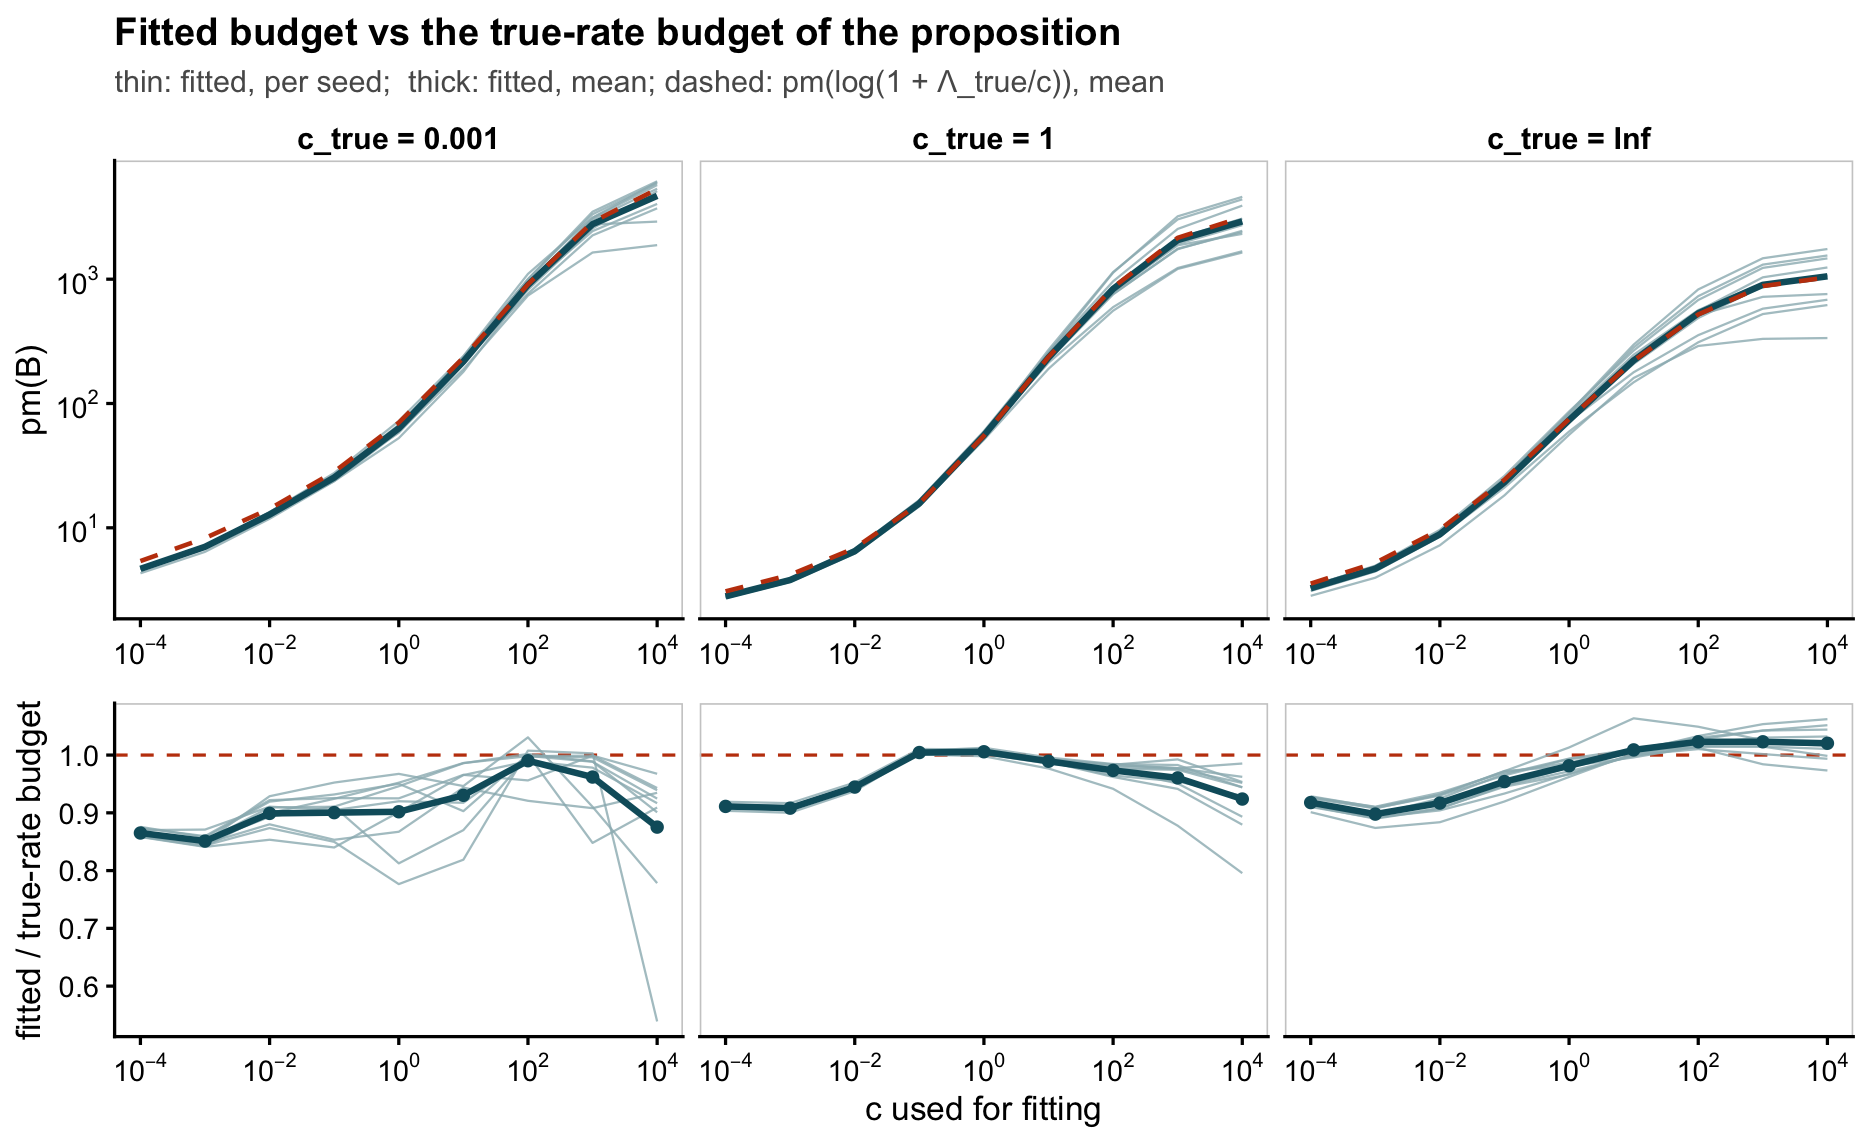
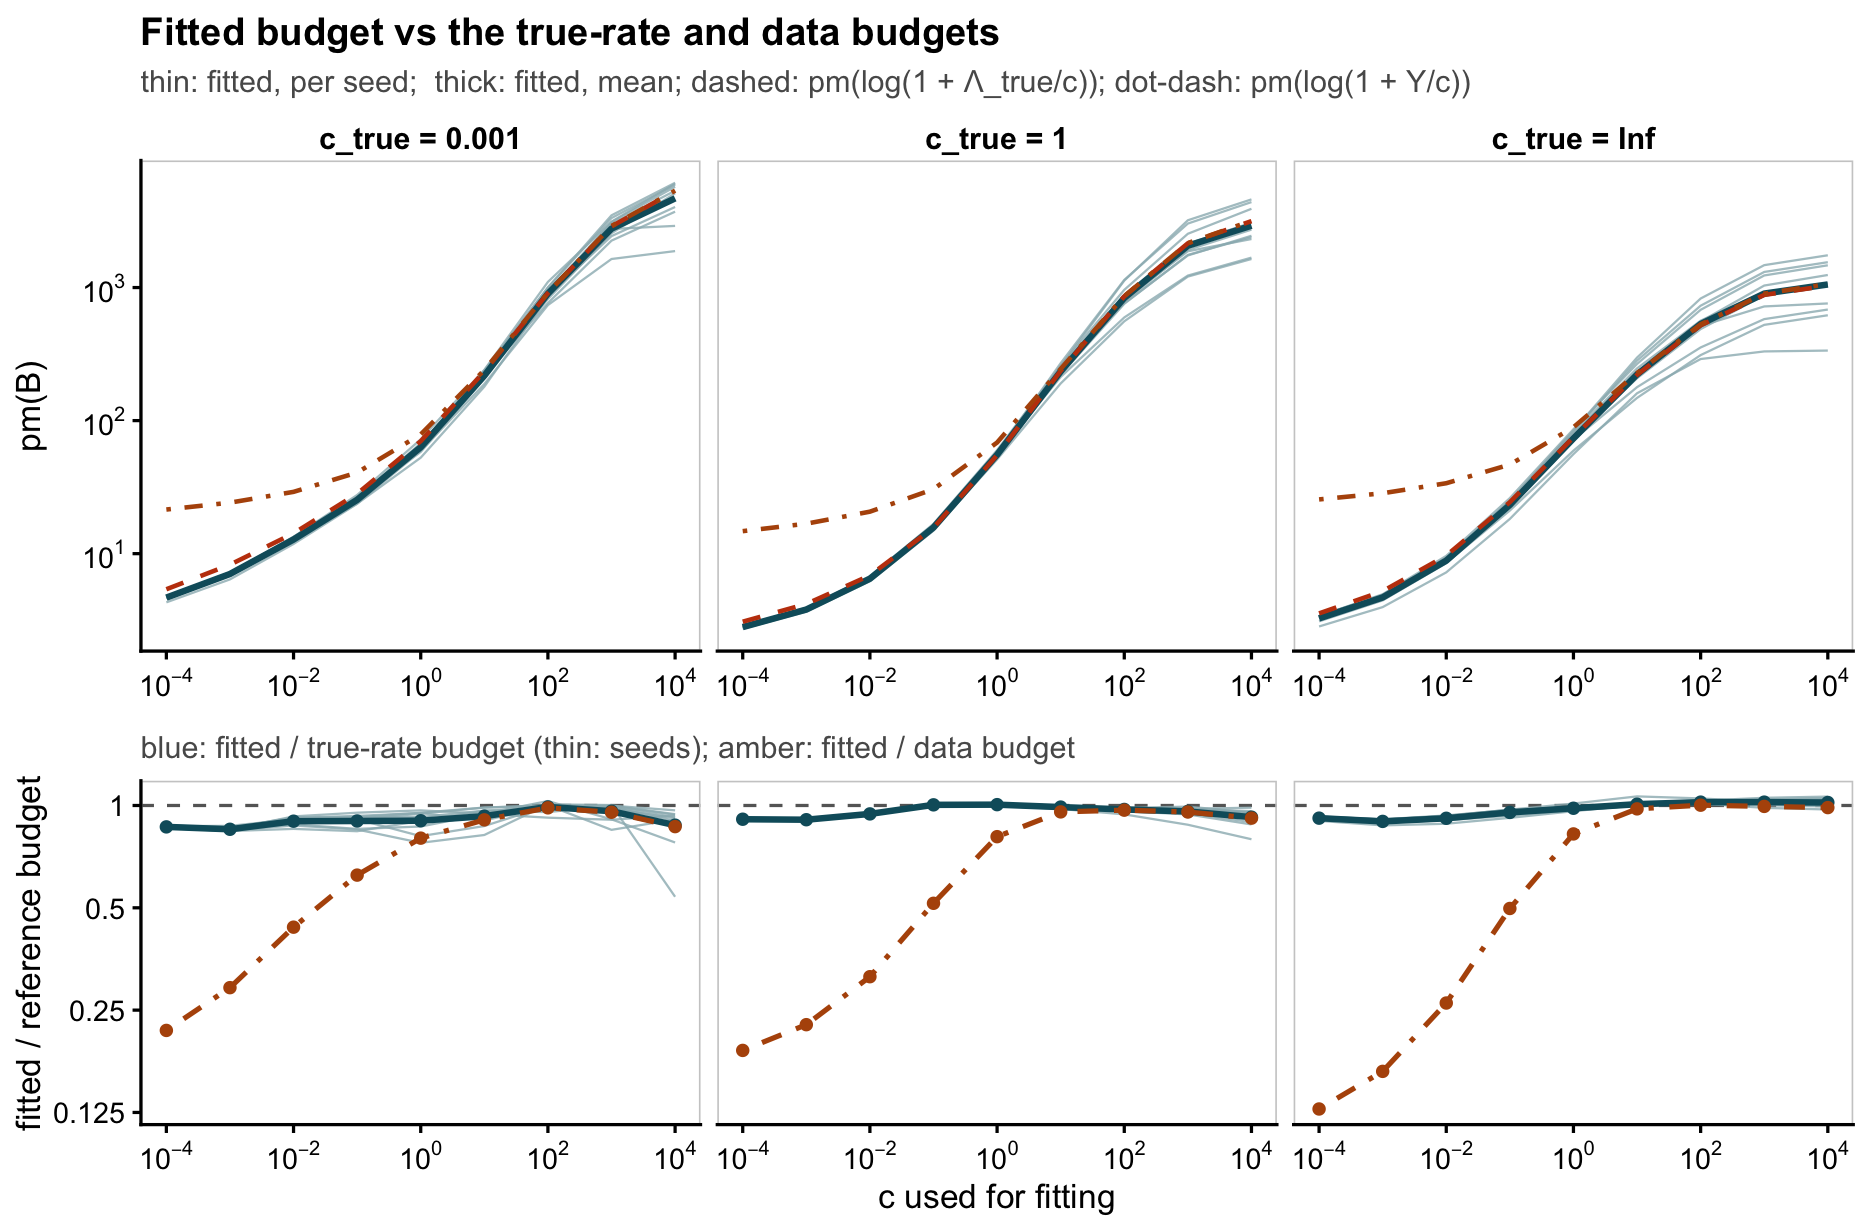
Build site.

diff --git a/docs/sim_design.html b/docs/sim_design.html
@@ -549,15 +549,15 @@ project makes it easier to run your code on other machines.</p>
 <div class="panel panel-default">
 <div class="panel-heading">
 <p class="panel-title">
-<a data-toggle="collapse" data-parent="#workflowr-checks" href="#strongRepositoryversionstrongahrefhttpsgithubcomeweinelog1pexperimentstreeb3a00c92298a42ee37468ebe219ddc2c30ce9fcatargetblankb3a00c9a">
+<a data-toggle="collapse" data-parent="#workflowr-checks" href="#strongRepositoryversionstrongahrefhttpsgithubcomeweinelog1pexperimentstree3ea0a61deeb48d958abd552eb722e18290f4c848targetblank3ea0a61a">
 <span class="glyphicon glyphicon-ok text-success"
 aria-hidden="true"></span> <strong>Repository version:</strong>
-<a href="https://github.com/eweine/log1p_experiments/tree/b3a00c92298a42ee37468ebe219ddc2c30ce9fca" target="_blank">b3a00c9</a>
+<a href="https://github.com/eweine/log1p_experiments/tree/3ea0a61deeb48d958abd552eb722e18290f4c848" target="_blank">3ea0a61</a>
 </a>
 </p>
 </div>
 <div
[2 lines of base64/hex data omitted]
 class="panel-collapse collapse">
 <div class="panel-body">
 <p>
@@ -567,7 +567,7 @@ reproducibility.
 </p>
 <p>
 The results in this page were generated with repository version
-<a href="https://github.com/eweine/log1p_experiments/tree/b3a00c92298a42ee37468ebe219ddc2c30ce9fca" target="_blank">b3a00c9</a>.
+<a href="https://github.com/eweine/log1p_experiments/tree/3ea0a61deeb48d958abd552eb722e18290f4c848" target="_blank">3ea0a61</a>.
 See the <em>Past versions</em> tab to see a history of the changes made
 to the R Markdown and HTML files.
 </p>
@@ -632,6 +632,40 @@ Message
 </tr>
 </thead>
 <tbody>
+<tr>
+<td>
+Rmd
+</td>
+<td>
+<a href="https://github.com/eweine/log1p_experiments/blob/3ea0a61deeb48d958abd552eb722e18290f4c848/analysis/sim_design.Rmd" target="_blank">3ea0a61</a>
+</td>
+<td>
+Eric Weine
+</td>
+<td>
+2026-08-10
+</td>
+<td>
+budget figure: add the data budget pm(log(1 + Y/c)) alongside fitted
+</td>
+</tr>
+<tr>
+<td>
+html
+</td>
+<td>
+<a href="https://rawcdn.githack.com/eweine/log1p_experiments/6c9d5469fc52eb8995f73c0b9f085744efbaa79e/docs/sim_design.html" target="_blank">6c9d546</a>
+</td>
+<td>
+Eric Weine
+</td>
+<td>
+2026-08-10
+</td>
+<td>
+Build site.
+</td>
+</tr>
 <tr>
 <td>
 Rmd
@@ -2326,57 +2360,114 @@ with <span class="math inline">\(b^{*}_{ij}(c) = \log(1 +
 the truth itself, and the quantity <span class="math inline">\(c \mapsto
 \operatorname{pm}(\log(1 +
 \boldsymbol{\Lambda}_{\textrm{true}}/c))\)</span> is computable from the
-generative model with no fitting at all. Comparing it to the budget the
-fitted models actually realize:</p>
+generative model with no fitting at all. Alongside it we show the same
+curve computed from the observed counts, <span
+class="math inline">\(\operatorname{pm}(\log(1 + \mathbf{Y}/c))\)</span>
+— the version available in practice (it is the calibration target of
+this whole design), and, by the saturated-case remark in the appendix,
+<em>exactly</em> the fitted budget when <span class="math inline">\(K
+\geq \min(n, p)\)</span>. Comparing both to the budget the rank-<span
+class="math inline">\(5\)</span> fits actually realize:</p>
 <pre class="r"><code>pm_true &lt;- do.call(rbind, lapply(ds, function(d) data.frame(
   seed = d$seed, cc = CC_GRID,
   ct = factor(paste0(&quot;c_true = &quot;, fmtc(d$c_true)), levels = levels(res$ct)),
   pm_true = sapply(CC_GRID, function(cc) {
-    g &lt;- log1p(d$lambda / cc); max(g) / mean(g) }))))
+    g &lt;- log1p(d$lambda / cc); max(g) / mean(g) }),
+  pm_data = sapply(CC_GRID, function(cc) {
+    g &lt;- log1p(d$Y / cc); max(g) / mean(g) }))))
 cmp &lt;- merge(exm[c(&quot;seed&quot;, &quot;cc&quot;, &quot;ct&quot;, &quot;pm_B&quot;)],
              pm_true, by = c(&quot;seed&quot;, &quot;cc&quot;, &quot;ct&quot;))
-cmp$ratio &lt;- cmp$pm_B / cmp$pm_true
+cmp$ratio      &lt;- cmp$pm_B / cmp$pm_true
+cmp$ratio_data &lt;- cmp$pm_B / cmp$pm_data
 
-avg  &lt;- aggregate(cbind(pm_B, pm_true) ~ cc + ct, cmp, mean)
+avg  &lt;- aggregate(cbind(pm_B, pm_true, pm_data) ~ cc + ct, cmp, mean)
 p1 &lt;- ggplot(cmp, aes(cc, pm_B)) +
   geom_line(aes(group = seed), colour = &quot;#9BB7BD&quot;,
             linewidth = 0.35, alpha = 0.8) +
   geom_line(data = avg, colour = &quot;#0E5C6B&quot;, linewidth = 1) +
   geom_line(data = avg, aes(y = pm_true), colour = &quot;#C2410C&quot;,
             linetype = &quot;dashed&quot;, linewidth = 0.7) +
+  geom_line(data = avg, aes(y = pm_data), colour = &quot;#B45309&quot;,
+            linetype = &quot;dotdash&quot;, linewidth = 0.7) +
   scale_x_log10(breaks = 10^seq(-4, 4, 2), labels = scales::label_log()) +
   scale_y_log10(labels = scales::label_log()) +
   facet_wrap(~ ct, nrow = 1) +
   labs(x = NULL, y = &quot;pm(B)&quot;,
-       title = &quot;Fitted budget vs the true-rate budget of the proposition&quot;,
+       title = &quot;Fitted budget vs the true-rate and data budgets&quot;,
        subtitle = paste(&quot;thin: fitted, per seed;  thick: fitted, mean;&quot;,
-                        &quot;dashed: pm(log(1 + Λ_true/c)), mean&quot;)) +
+                        &quot;dashed: pm(log(1 + Λ_true/c));&quot;,
+                        &quot;dot-dash: pm(log(1 + Y/c))&quot;)) +
   theme(strip.background = element_blank(),
         strip.text = element_text(face = &quot;bold&quot;, size = 10),
         plot.subtitle = element_text(size = 10, colour = &quot;grey35&quot;),
         panel.border = element_rect(colour = &quot;grey80&quot;, fill = NA))
 
-ravg &lt;- aggregate(ratio ~ cc + ct, cmp, mean)
+ravg &lt;- aggregate(cbind(ratio, ratio_data) ~ cc + ct, cmp, mean)
 p2 &lt;- ggplot(cmp, aes(cc, ratio)) +
-  geom_hline(yintercept = 1, linetype = &quot;dashed&quot;, colour = &quot;#C2410C&quot;) +
+  geom_hline(yintercept = 1, linetype = &quot;dashed&quot;, colour = &quot;grey40&quot;) +
   geom_line(aes(group = seed), colour = &quot;#9BB7BD&quot;,
             linewidth = 0.35, alpha = 0.8) +
   geom_line(data = ravg, colour = &quot;#0E5C6B&quot;, linewidth = 1) +
   geom_point(data = ravg, colour = &quot;#0E5C6B&quot;, size = 1.4) +
+  geom_line(data = ravg, aes(y = ratio_data), colour = &quot;#B45309&quot;,
+            linetype = &quot;dotdash&quot;, linewidth = 0.8) +
+  geom_point(data = ravg, aes(y = ratio_data), colour = &quot;#B45309&quot;,
+             size = 1.4) +
   scale_x_log10(breaks = 10^seq(-4, 4, 2), labels = scales::label_log()) +
+  scale_y_log10(breaks = c(0.125, 0.25, 0.5, 1),
+                labels = c(&quot;0.125&quot;, &quot;0.25&quot;, &quot;0.5&quot;, &quot;1&quot;)) +
   facet_wrap(~ ct, nrow = 1) +
-  labs(x = &quot;c used for fitting&quot;,
-       y = &quot;fitted / true-rate budget&quot;) +
+  labs(x = &quot;c used for fitting&quot;, y = &quot;fitted / reference budget&quot;,
+       subtitle = paste(&quot;blue: fitted / true-rate budget (thin: seeds);&quot;,
+                        &quot;amber: fitted / data budget&quot;)) +
   theme(strip.background = element_blank(),
         strip.text = element_blank(),
+        plot.subtitle = element_text(size = 10, colour = &quot;grey35&quot;),
         panel.border = element_rect(colour = &quot;grey80&quot;, fill = NA))
 
-cowplot::plot_grid(p1, p2, ncol = 1, rel_heights = c(1.5, 1), align = &quot;v&quot;)</code></pre>
+cowplot::plot_grid(p1, p2, ncol = 1, rel_heights = c(1.4, 1), align = &quot;v&quot;)</code></pre>
 <p><img src="figure/sim_design.Rmd/budget-true-fig-1.png" alt="" width="935" style="display: block; margin: auto;" /></p>
+<p>
+<button type="button" class="btn btn-default btn-xs btn-workflowr btn-workflowr-fig" data-toggle="collapse" data-target="#fig-budget-true-fig-1">
+Past versions of budget-true-fig-1.png
+</button>
+</p>
+<div id="fig-budget-true-fig-1" class="collapse">
+<div class="table-responsive">
+<table class="table table-condensed table-hover">
+<thead>
+<tr>
+<th>
+Version
+</th>
+<th>
+Author
+</th>
+<th>
+Date
+</th>
+</tr>
+</thead>
+<tbody>
+<tr>
+<td>
+<a href="https://github.com/eweine/log1p_experiments/blob/6c9d5469fc52eb8995f73c0b9f085744efbaa79e/docs/figure/sim_design.Rmd/budget-true-fig-1.png" target="_blank">6c9d546</a>
+</td>
+<td>
+Eric Weine
+</td>
+<td>
+2026-08-10
+</td>
+</tr>
+</tbody>
+</table>
+</div>
+</div>
 <p>The dashed curve is barely distinguishable from the fitted one: the
 mean ratio stays within <span class="math inline">\(0.85\)</span>–<span
-class="math inline">\(1.02\)</span> across the entire grid (bottom row),
-and the individual seeds mostly within <span
+class="math inline">\(1.02\)</span> across the entire grid (bottom row,
+blue), and the individual seeds mostly within <span
 class="math inline">\(0.8\)</span>–<span
 class="math inline">\(1.05\)</span> — the visible exception being the
 largest <span class="math inline">\(c_{\textrm{fit}}\)</span> values at
@@ -2390,12 +2481,39 @@ is the same rank-<span class="math inline">\(K\)</span> smoothing in
 gentler form, and at <span class="math inline">\(c_{\textrm{true}} =
 \infty\)</span> with large <span
 class="math inline">\(c_{\textrm{fit}}\)</span> the fits slightly
-<em>exceed</em> the true-rate budget instead. Practically, this closes
-the loop on the proposition: the fixed-rate budget curve, computable
-from rates (or, by the same calculation, from data) without fitting
-anything, is an accurate forecast of the budget the fitted model will
-actually have — which is what makes the budget a usable a-priori
-diagnostic rather than a post-hoc description.</p>
+<em>exceed</em> the true-rate budget instead.</p>
+<p>The <strong>data budget</strong> (dot-dash) tells a complementary
+story. At <span class="math inline">\(c_{\textrm{fit}} \gtrsim
+1\)</span> it agrees with the other two curves to within <span
+class="math inline">\(\sim 15\%\)</span>. At small <span
+class="math inline">\(c_{\textrm{fit}}\)</span> it splits off upward,
+exceeding the fitted budget by a factor of <span
+class="math inline">\(4\)</span>–<span class="math inline">\(8\)</span>
+(bottom row, amber, dropping to <span
+class="math inline">\(0.13\)</span>–<span
+class="math inline">\(0.23\)</span>): on the link scale the <span
+class="math inline">\(\sim 89\%\)</span> zero entries of <span
+class="math inline">\(\mathbf{Y}\)</span> stay exactly zero and drag the
+matrix mean down, while the true rates — and every entry of a rank-<span
+class="math inline">\(5\)</span> fit — are strictly positive. This is
+the saturated-case remark playing out in reverse: at <span
+class="math inline">\(K \geq \min(n,p)\)</span> the fit would reproduce
+<span class="math inline">\(\mathbf{Y}\)</span> and its budget exactly,
+but a low-rank fit smooths the zeros up to small positive values, and
+its budget lands on the <em>true-rate</em> curve rather than the data
+curve. Practically: for sparse count data, <span
+class="math inline">\(\operatorname{pm}(\log(1 + \mathbf{Y}/c))\)</span>
+preserves the shape and ordering of the budget — it remains monotone and
+spans the same three decades, which is all its role as a calibration
+target requires — but as a forecast of the budget a low-rank fit will
+realize at small <span class="math inline">\(c\)</span> it overstates
+the level, and the true-rate (equivalently, fitted-rate) version is the
+sharper reference. Practically, this closes the loop on the proposition:
+the fixed-rate budget curve, computable from rates (or, by the same
+calculation, from data) without fitting anything, is an accurate
+forecast of the budget the fitted model will actually have — which is
+what makes the budget a usable a-priori diagnostic rather than a
+post-hoc description.</p>
 <p><strong>How tight are the bounds?</strong> For each fitted factor we
 compute the slack of inequality (1), <span
 class="math inline">\(\operatorname{pm}(\mathbf{B}) /
